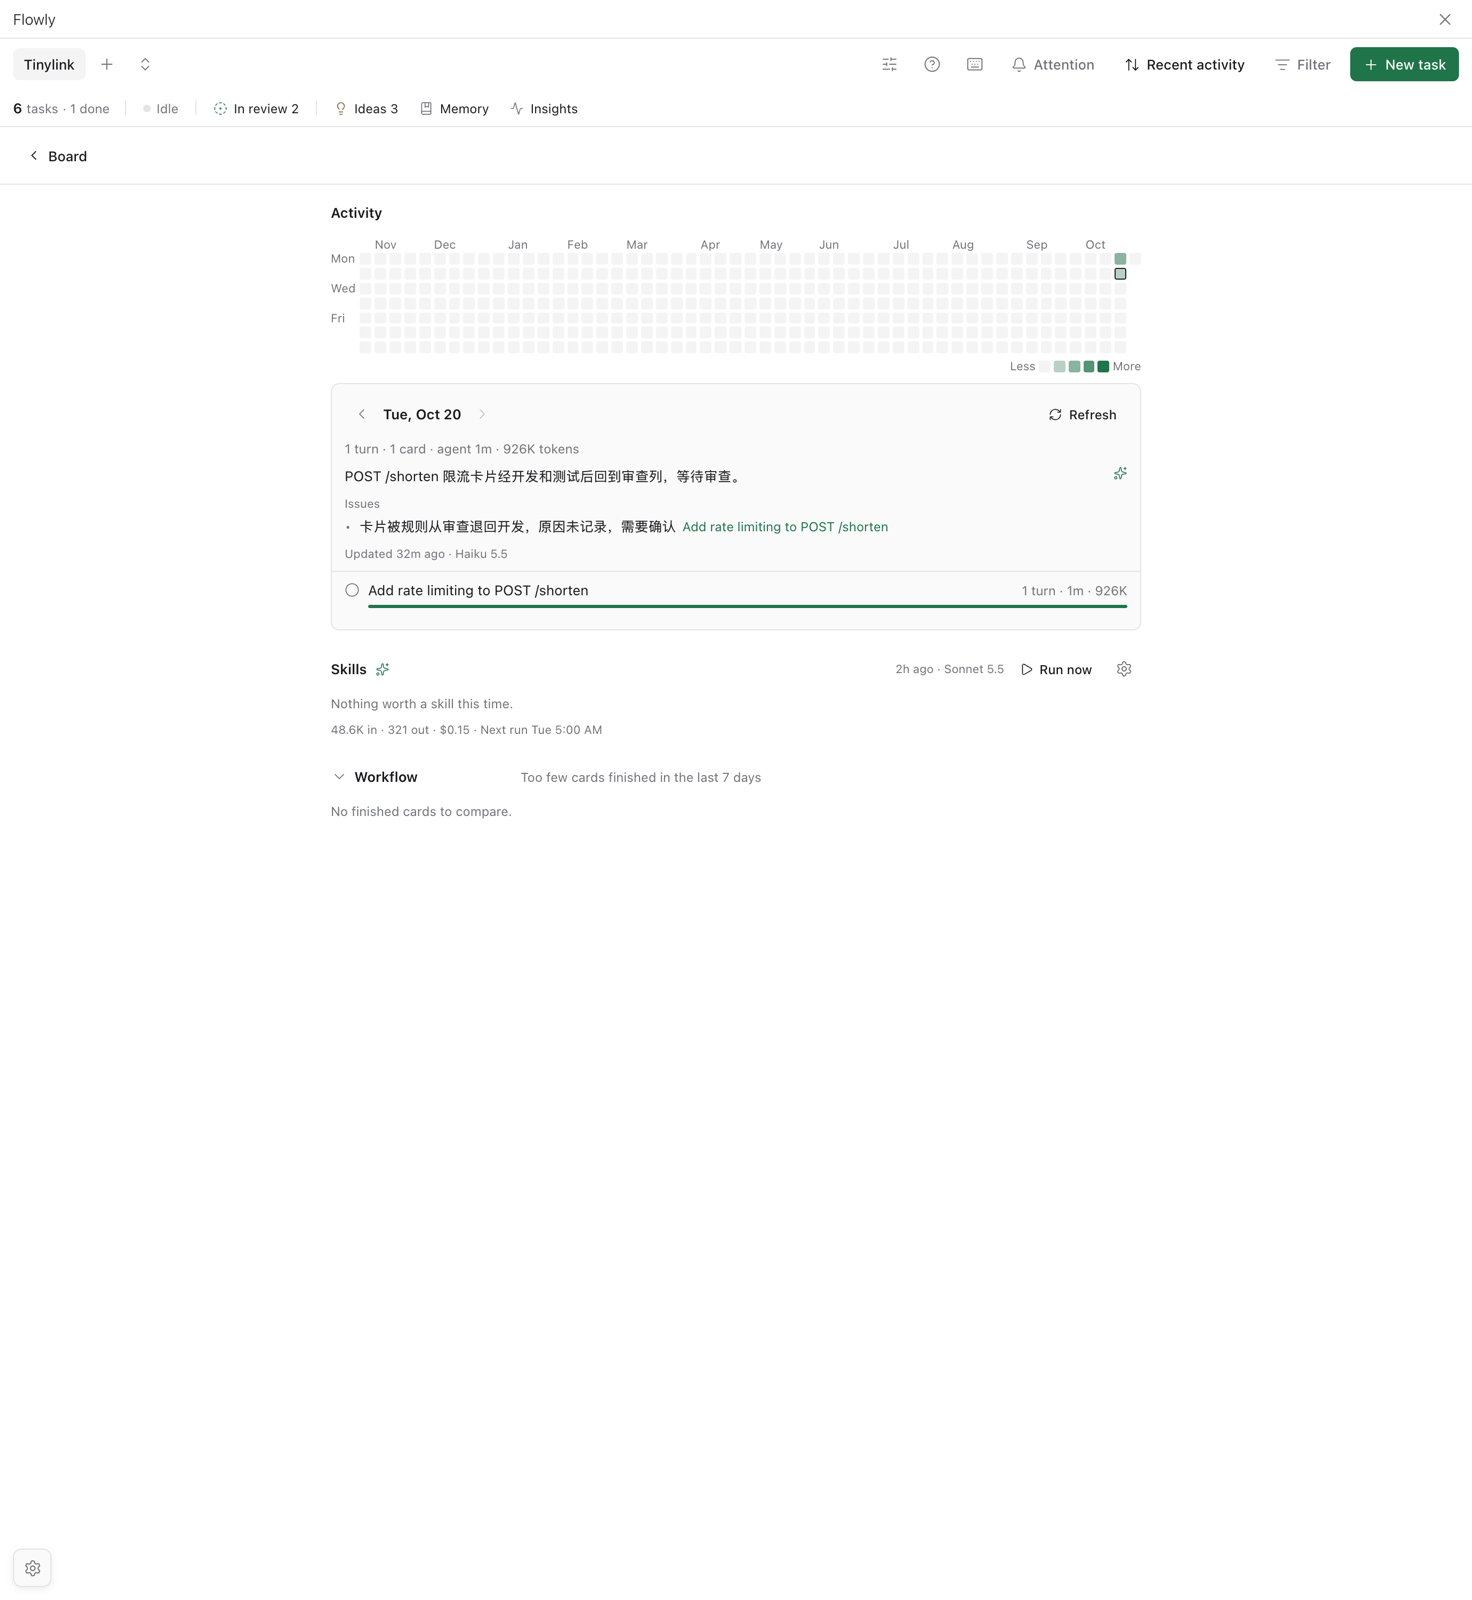
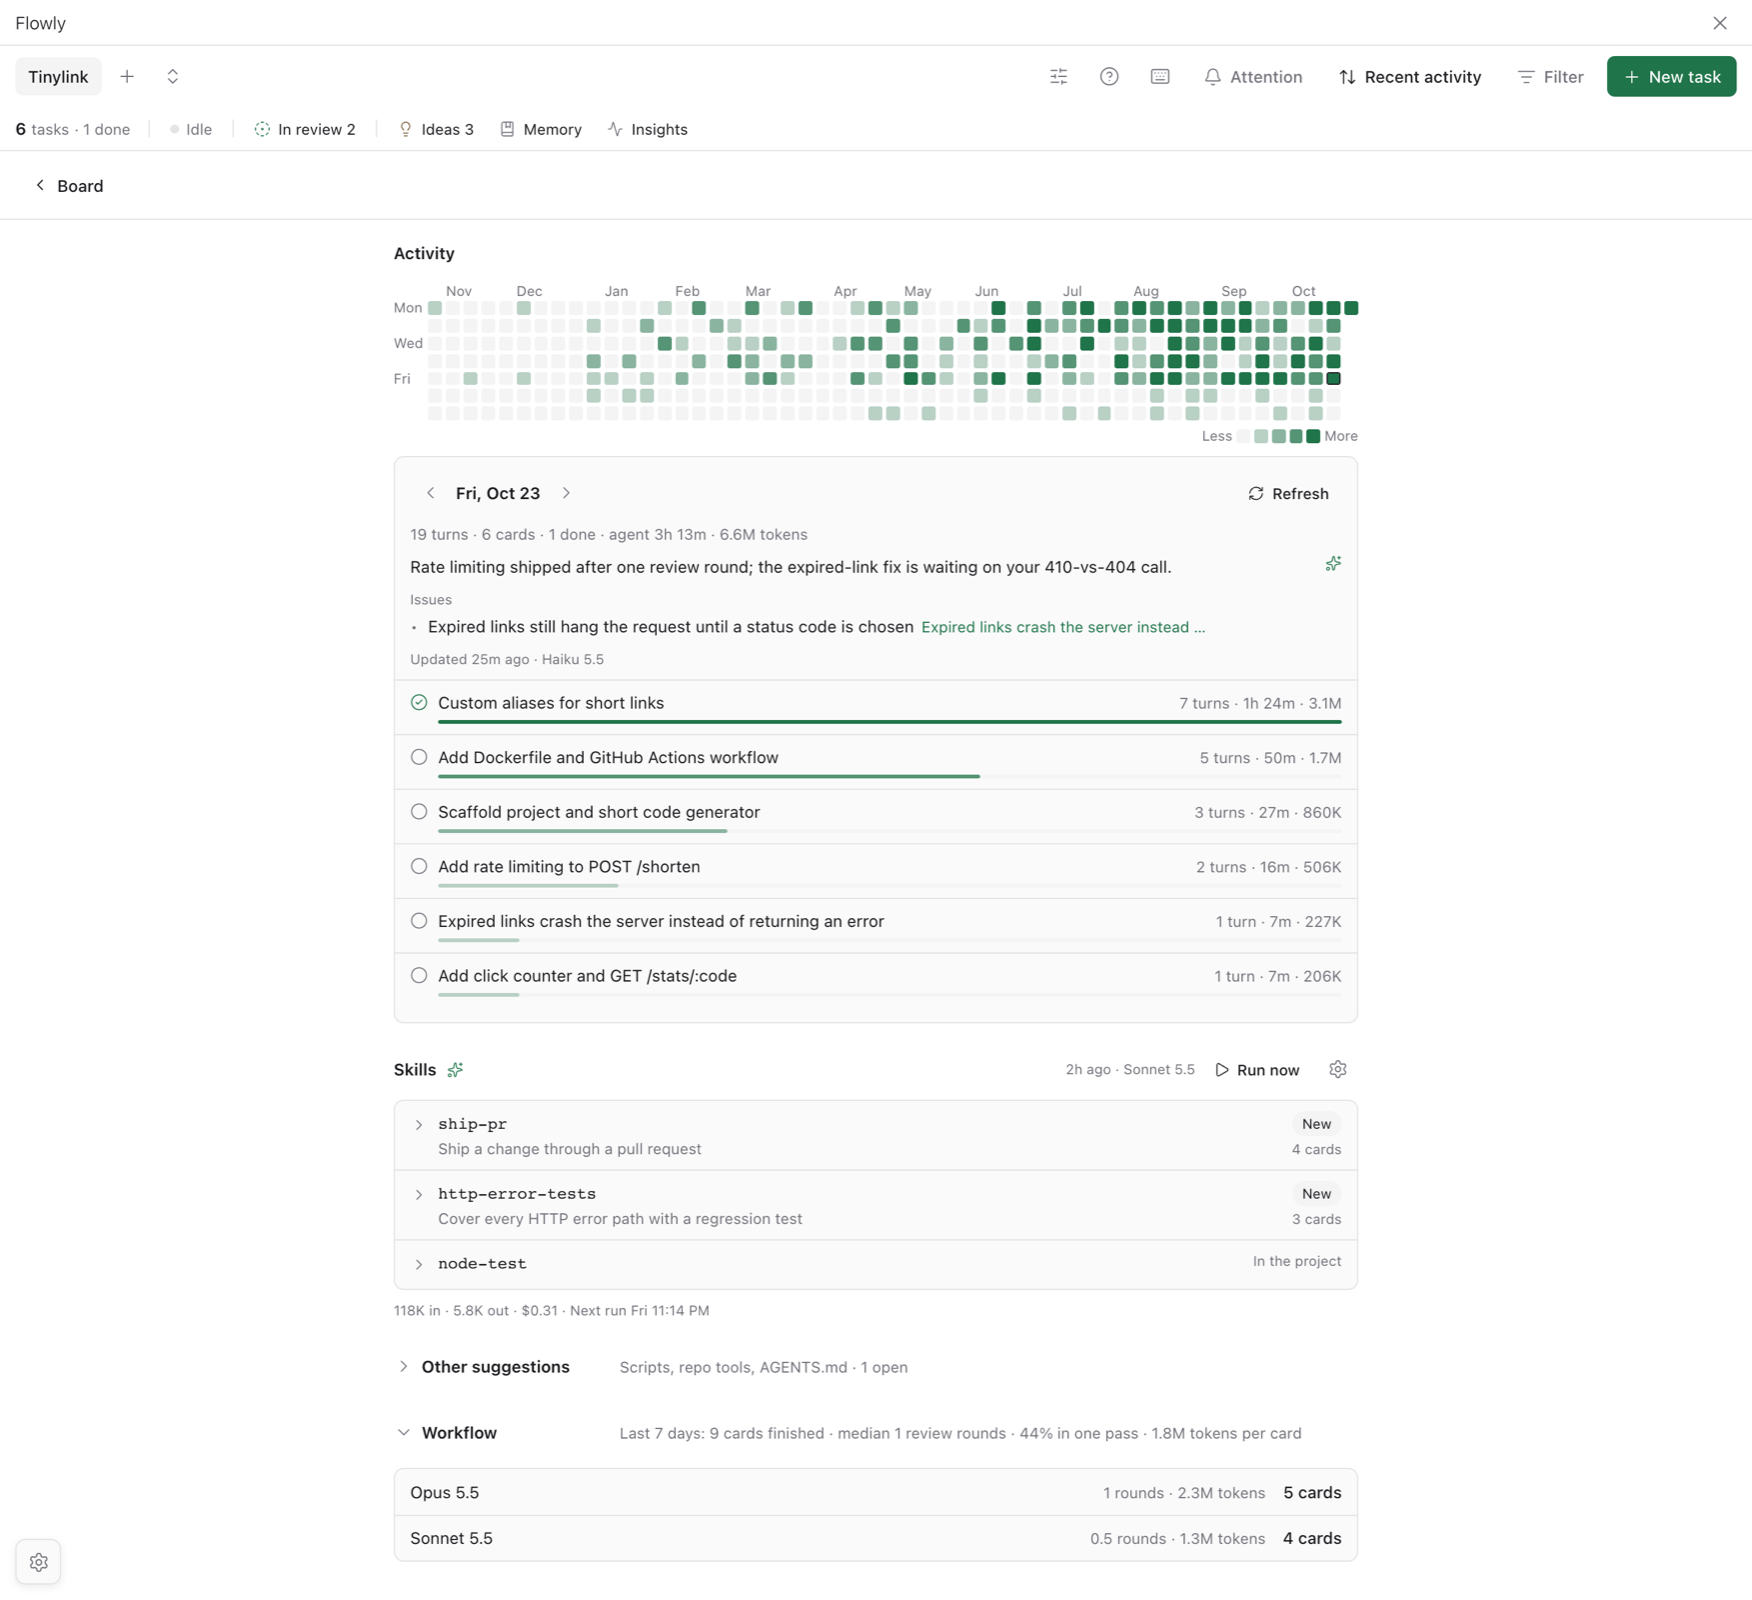
docs(promo): Insights screenshots with sample data, and the script that makes them
Tinylink has too little activity for a useful Insights shot. docs/promo/insights-mock.mjs opens its real Insights page in a headless browser and answers the five Insights RPCs with sample data (a year of activity, a day summary, skill drafts, Workflow by model); everything else passes through and nothing is written. Replaces 05-insights(.png, -dark.png) and the registry media copy.

diff --git a/docs/promo/README.md b/docs/promo/README.md
@@ -10,7 +10,7 @@
 | 2 | 人工介入提醒 | `screenshots/02-needs-you-drawer.png` | agent 遇到需要你拍板的事（如 410 还是 404），会提问并停下；卡片亮起 **Needs you**，顶部 Attention 汇总，Reply 一键直达该 session。 / The agent asks, stops, and the card lights up “Needs you”; Reply jumps straight to the session. |
 | 3 | 任务运行 summary | `screenshots/03-card-summary.png` | 每轮结束自动生成：一句话现状、目标、已完成要点、下一步，保留历史版本。Done 之后仍能回看当时做到哪。 / Auto-written after every turn: state, target, recap, next — with version history. |
 | 4 | 任务延伸 ideas | `screenshots/04-ideas-inbox.png`、`04b-good-idea-two-paths.png` | agent 干活时发现的后续工作（配置化、Redis 限流、顺带发现的 bug）进入 Ideas 收件箱。Good idea 两条路：在原 session 继续，或新建卡片 / 新 session。 / Follow-up work found along the way lands in an inbox; accept it into the same session or a new card. |
-| 5 | Project insights | `screenshots/05-insights.png`（深色：`…-dark.png`） | 一页看完今天：完成/新建/返工、agent 时长、commits、token 用量；「等你处理」列表、规则建议、AI 日报、7 日趋势。 / One page for the day: throughput, agent time, commits, tokens, waiting-on-you, suggestions, an AI daily summary and a 7-day trend. |
+| 5 | Project insights | `screenshots/05-insights.png`（深色：`…-dark.png`，模拟数据，`insights-mock.mjs` 生成） | 一年活跃度热力图、可逐日翻看的每日总结和每张卡的耗时、从卡片起草的 skill、最近 7 天按模型的评审轮次与 token。 / A year of activity, a day summary you can page through, skill drafts and the last 7 days' review rounds and tokens by model. |
 
 ## 演示项目
 
@@ -26,7 +26,8 @@
 ```
 node docs/promo/setup.mjs                         # 建 Tinylink 仓库、项目、卡片，并启动 3 个 Haiku session
 node docs/promo/start-session.mjs "Custom aliases" "<prompt>"   # 追加一个 session
-node docs/promo/shots.mjs 01 01d 02 03 04 05 05d  # 截图（headless Chromium，2× 分辨率，裁掉宿主侧栏）
+node docs/promo/shots.mjs board drawers ideas settings i18n  # 截图（headless Chromium，2× 分辨率，裁掉宿主侧栏）
+node docs/promo/insights-mock.mjs && node docs/promo/insights-mock.mjs docs/promo/screenshots/05-insights-dark.png dark  # Insights 用模拟数据（Tinylink 自己的数据太少）
 ```
 
 截图只裁取插件面板，不含宿主侧栏里的个人 workspace。
